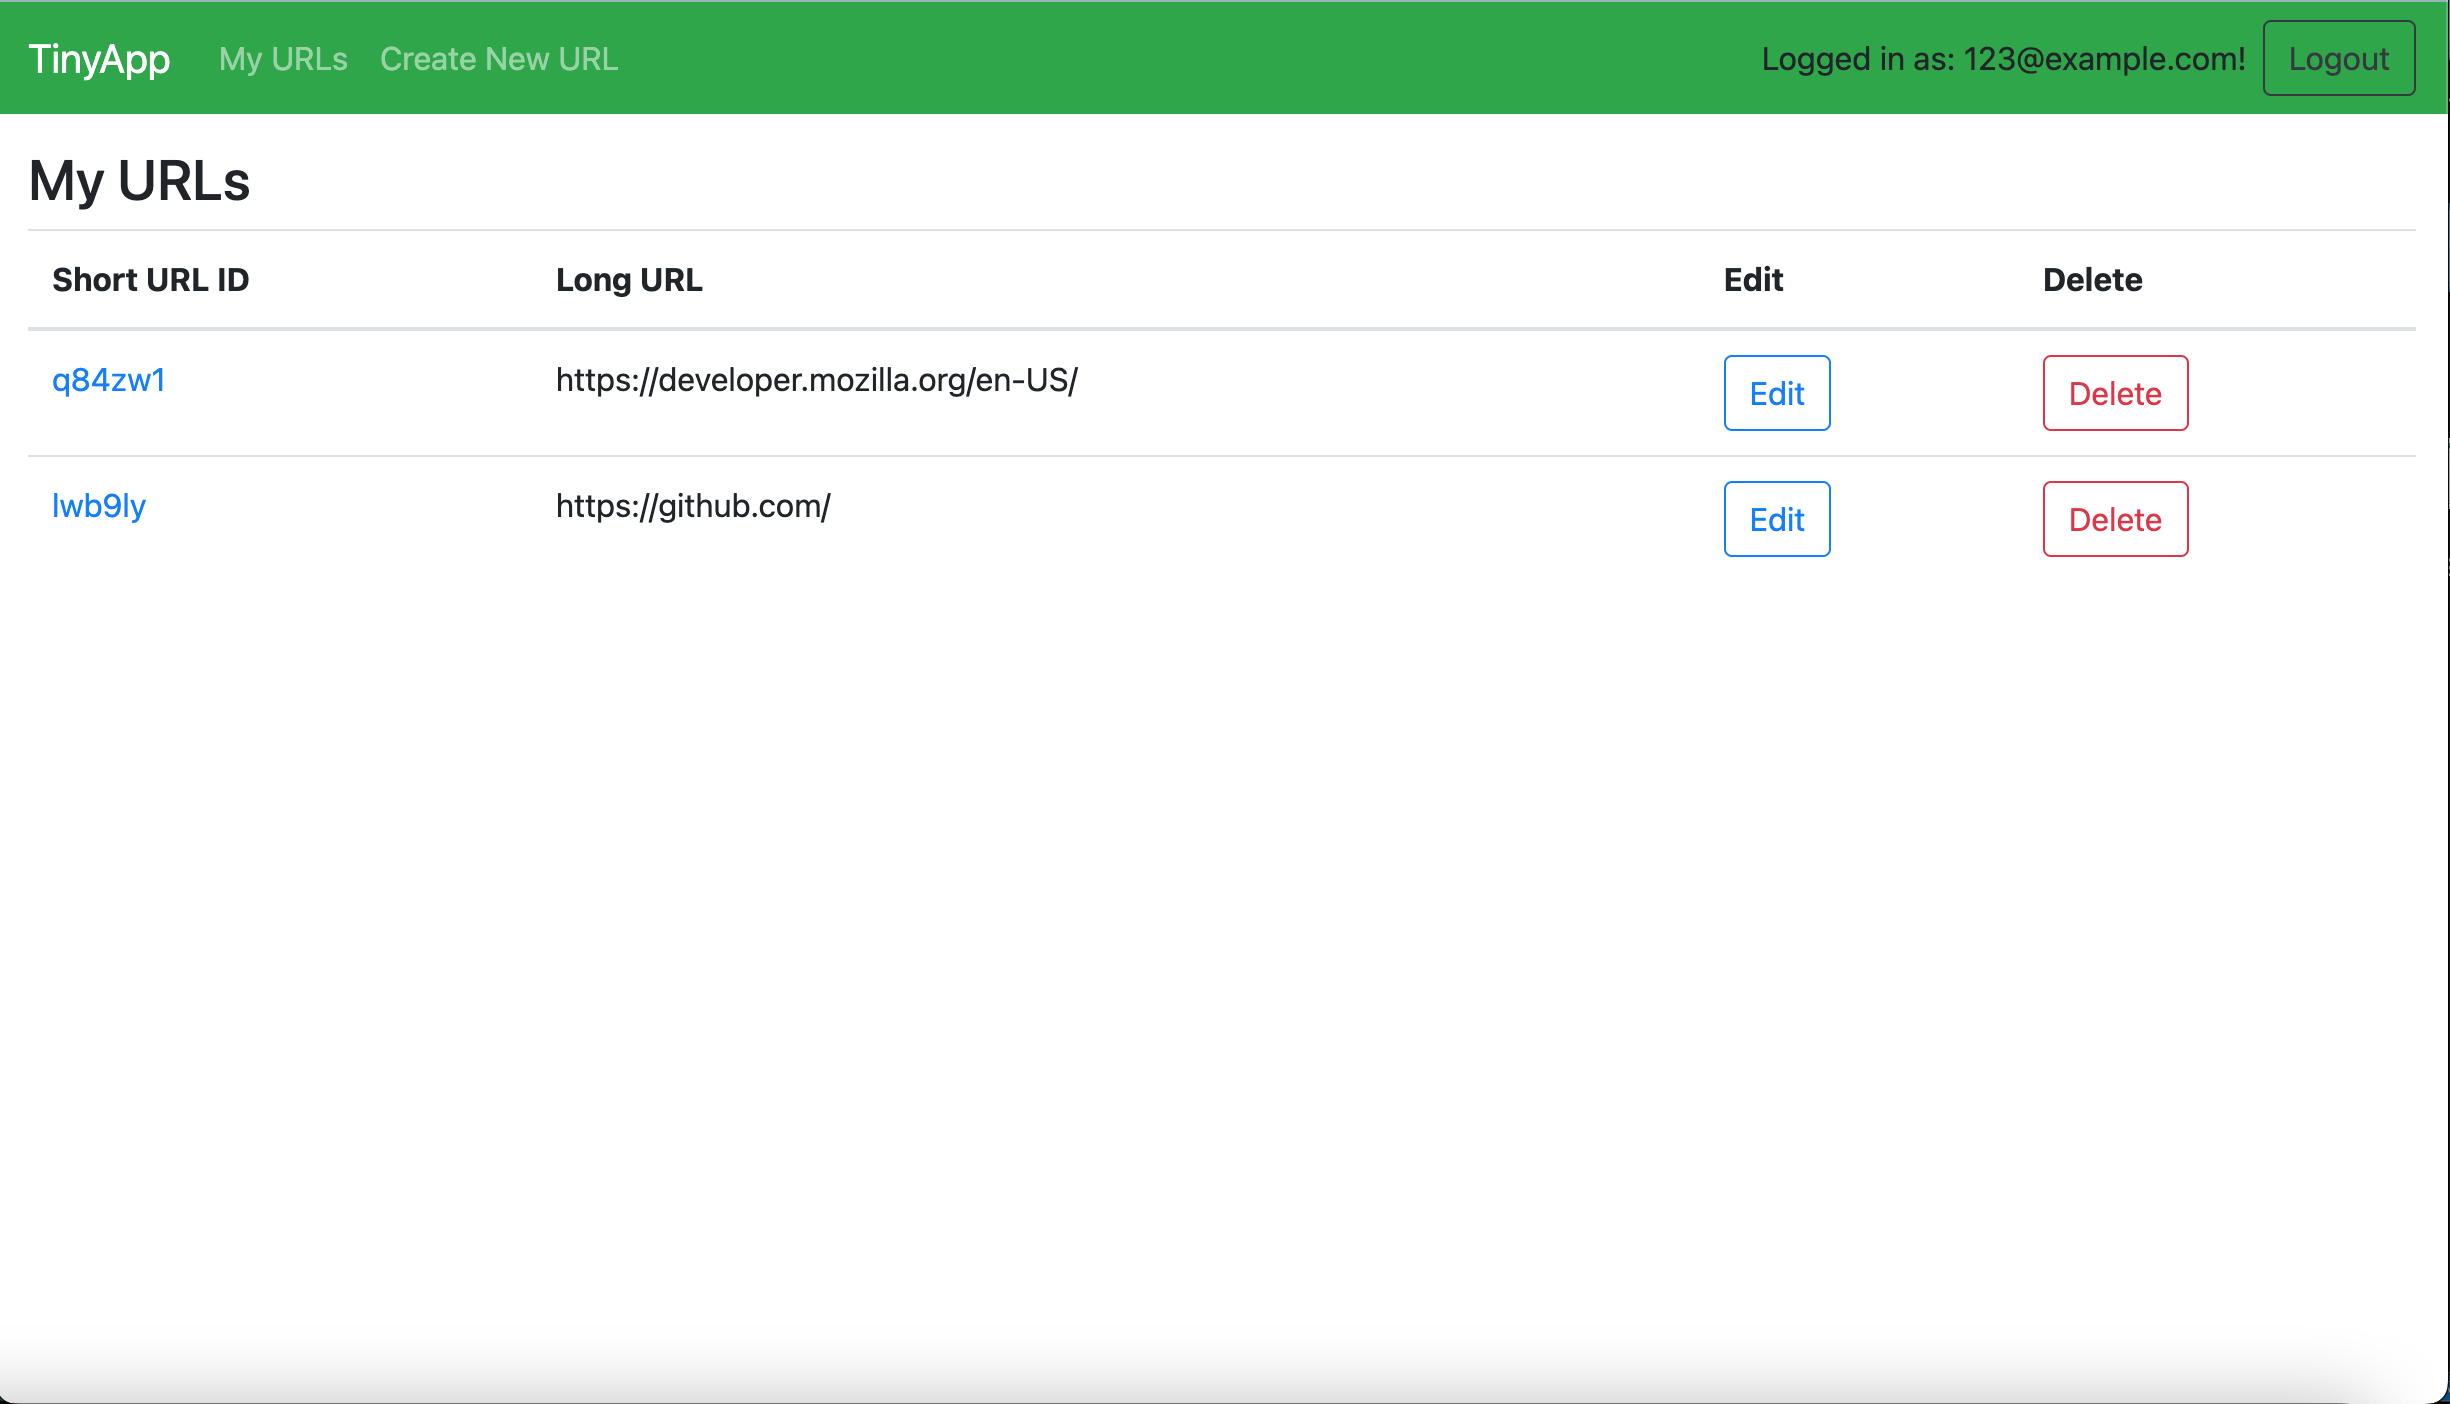
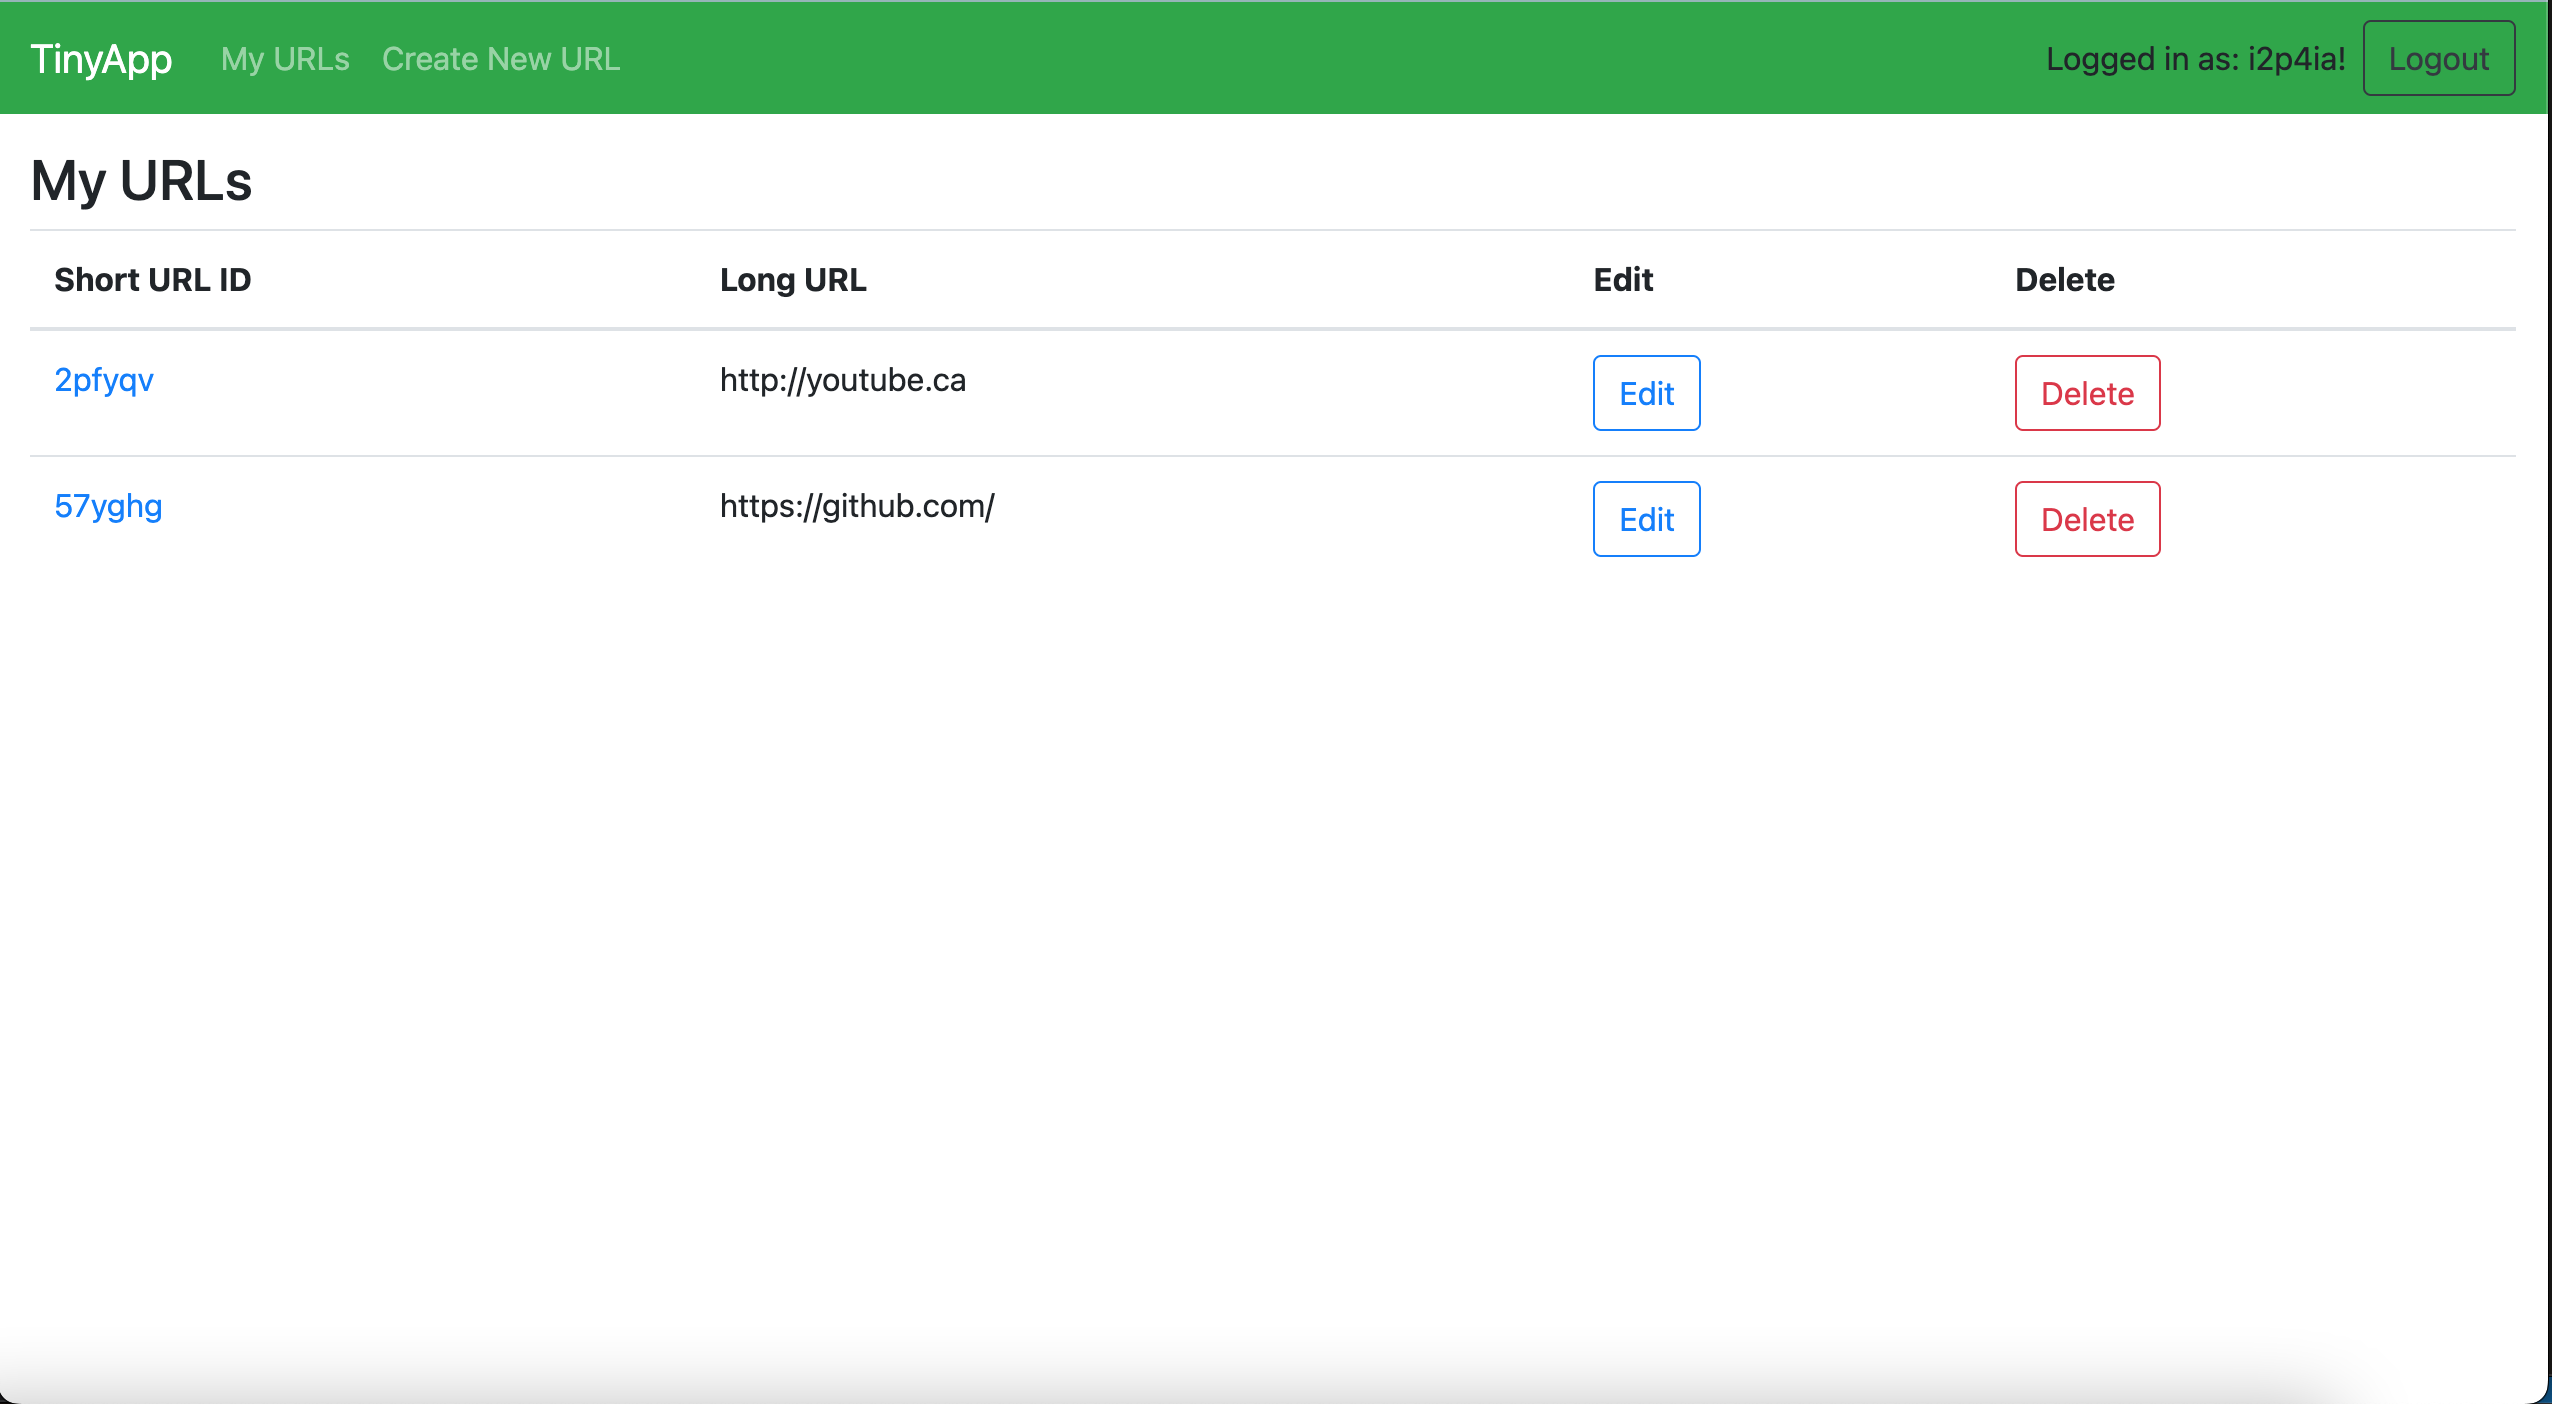
Fix _header template to display userid instead of email

diff --git a/express_server.js b/express_server.js
@@ -15,8 +15,6 @@ app.use(
   cookieSession({
     name: "session",
     keys: ["secret-key"],
-
-    // Cookie Options
     maxAge: 24 * 60 * 60 * 1000, // 24 hours
   })
 );
@@ -25,18 +23,9 @@ app.set("view engine", "ejs"); //Set ejs as the view engine
 
 //---Datas
 const urlDatabase = {
-  b6UTxQ: {
-    longURL: "https://www.tsn.ca",
-    userID: "aJ48lW",
-  },
-  i3BoGr: {
-    longURL: "https://www.google.ca",
-    userID: "aJ48lW",
-  },
-  i34or8: {
-    longURL: "https://github.com/",
-    userID: "asdfg",
-  },
+  b6UTxQ: { longURL: "https://www.tsn.ca", userID: "aJ48lW" },
+  i3BoGr: { longURL: "https://www.google.ca", userID: "aJ48lW" },
+  i34or8: { longURL: "https://github.com/", userID: "asdfg" },
 };
 
 const users = {
@@ -71,43 +60,44 @@ app.get("/urls.json", (req, res) => {
 app.get("/urls", (req, res) => {
   const loginID = req.session.user_id;
   const loginUser = users[loginID];
-  const templateVars = {
-    user: loginUser,
-    urls: urlDatabase,
-    userURLs: urlsForUser(loginID, urlDatabase),
-    user_id: loginID,
-  };
+
   if (!loginUser) {
-    res
+    return res
       .status(401)
       .send(
         "<h2>You must be logged in to TinyApp!</h2><p>Login or register first.</p>"
       );
-  } else {
-    templateVars.urls = urlsForUser(loginID, urlDatabase);
-    res.render("urls_index", templateVars);
   }
+
+  const templateVars = {
+    user: loginUser,
+    urls: urlsForUser(loginID, urlDatabase),
+    user_id: loginID,
+  };
+
+  // templateVars.urls = urlsForUser(loginID, urlDatabase);
+  res.render("urls_index", templateVars);
 });
 
 //POST request to add a new URL with new short URL
 app.post("/urls", (req, res) => {
   const loginID = req.session.user_id;
+
   if (!users[loginID]) {
     return res.status(401).send("<h2>You must be logged in to TinyApp.</h2>");
   }
+
   const newShortURL = generateRandomString();
 
-  if(urlDatabase[newShortURL]) {
-    return res.send("<h2>Short URL already exists.</h2>")
+  if (urlDatabase[newShortURL]) {
+    return res.send("<h2>Short URL already exists.</h2>");
   }
 
   urlDatabase[newShortURL] = {
     longURL: req.body.longURL,
-    userID: loginID
-  }
+    userID: loginID,
+  };
 
-  console.log("URL", urlDatabase);
-  
   res.redirect(`/urls/${newShortURL}`);
 });
 
@@ -154,7 +144,6 @@ app.get("/urls/:id", (req, res) => {
   res.render("urls_show", templateVars);
 });
 
-//---Delete
 app.post("/urls/:id/delete", (req, res) => {
   const id = req.params.id;
   const loginID = req.session.user_id;
@@ -204,21 +193,22 @@ app.post("/urls/:id/edit", (req, res) => {
     return res.send("<h2>You do not have permission to access this URL.</h2>");
   }
 
-  const newLongURL = req.body.longURL;
-  urlDatabase[id].longURL = newLongURL;
+  // const newLongURL = req.body.longURL;
+  urlDatabase[id].longURL = req.body.longURL;
   res.redirect("/urls");
 });
 
 app.get("/u/:id", (req, res) => {
   const id = req.params.id;
   const longURL = urlDatabase[id];
+
   res.redirect(longURL);
 });
 
-//---Register
+//email and password cannot be empty, alredy existing email cannot be registered
+//password will be stored after hashing using bcrypt
 app.post("/register", (req, res) => {
-  //same as Const email = req.body.email and Const password = req.body.password
-  const { email, password } = req.body; //accessing the data submitted in the req body
+  const { email, password } = req.body;
 
   if (!email || !password) {
     return res.status(400).send("Invalid email and/or password");
@@ -228,63 +218,58 @@ app.post("/register", (req, res) => {
   }
 
   const user_id = generateRandomString();
-  const hashedPassword = bcrypt.hashSync(password, saltRounds); //Salt rounds
-
+  const hashedPassword = bcrypt.hashSync(password, saltRounds);
   const newUser = {
     id: user_id,
     email: email,
     password: hashedPassword,
   };
-  users[user_id] = newUser;
 
+  users[user_id] = newUser;
   req.session.user_id = user_id;
   res.redirect("/urls");
 });
 
 app.get("/register", (req, res) => {
-  const loginID = req.session.user_id;
-  const loginUser = users[loginID];
+  // const loginID = req.session.user_id;
+  const loginUser = users[req.session.user_id];
 
-  const templateVars = {
-    user_id: loginID,
-    user: loginUser,
-  };
+  // const templateVars = {
+  //   user_id: loginID,
+  //   user: loginUser,
+  // };
   if (loginUser) {
     res.redirect("/urls");
   } else {
-    res.render("urls_register", templateVars);
+    res.render("urls_register", { user: loginUser });
   }
 });
 
 //---Login
 app.get("/login", (req, res) => {
-  const loginID = req.session.user_id;
-  const loginUser = users[loginID];
+  // const loginID = req.session.user_id;
+  const loginUser = users[req.session.user_id];
 
-  const templateVars = {
-    user_id: loginID,
-    user: loginUser,
-  };
+  // const templateVars = {
+  //   user_id: loginID,
+  //   user: loginUser,
+  // };
   if (loginUser) {
     res.redirect("/urls");
   } else {
-    res.render("login", templateVars);
+    res.render("login", { user: loginUser });
   }
 });
 
 app.post("/login", (req, res) => {
   const { email, password } = req.body;
   const currentUser = getUserByEmail(email, users);
-
-  if (!currentUser) {
-    return res.status(403).send("Invalid email/password");
-  }
-
   const passwordMatch = bcrypt.compareSync(password, currentUser.password);
 
-  if (!passwordMatch) {
+  if (!currentUser || !passwordMatch) {
     return res.status(403).send("Invalid email/password");
   }
+
   req.session.user_id = currentUser.id;
   res.redirect("/urls");
 });
